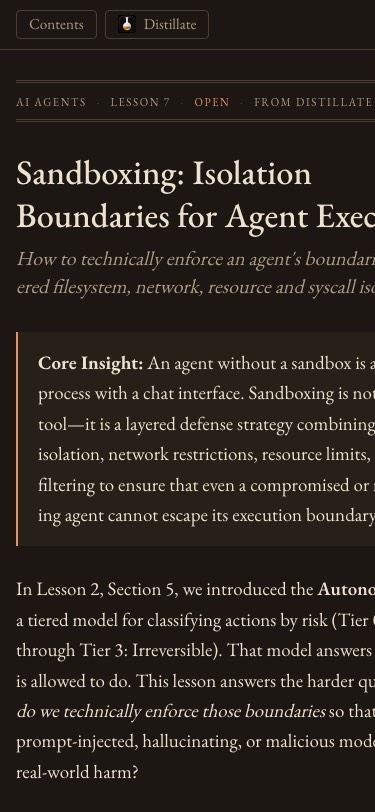
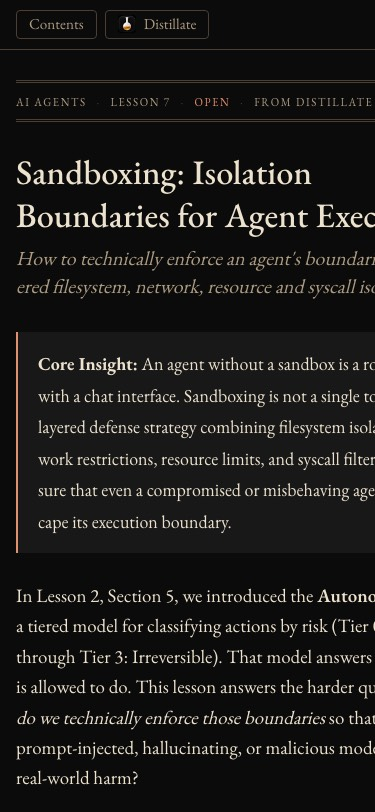
fix(ui): review fixes for numbering, margin notes, index offset and callout size
Unnumbered headings get no medallion in a lesson that numbers its own
headings. Folded margin notes take their number from their marker and keep
marker order, and the marker is inert on wide screens. The section and gloss
counters reset per article. The index offset applies only to lesson and
record pages and is set before hydration.

Changed region(s): [[0.0293, 0.7081, 1.0, 0.9852], [0.088, 0.431, 1.0, 0.6773]]

diff --git a/components/mdx/Margin.test.tsx b/components/mdx/Margin.test.tsx
@@ -1,15 +1,18 @@
-import { act } from "react";
+import { act, type ReactNode } from "react";
 import { createRoot, type Root } from "react-dom/client";
-import { afterEach, beforeEach, describe, expect, it } from "vitest";
+import { afterEach, beforeEach, describe, expect, it, vi } from "vitest";
 import { Margin } from "./Margin";
 
 (globalThis as { IS_REACT_ACT_ENVIRONMENT?: boolean }).IS_REACT_ACT_ENVIRONMENT = true;
 
-let container: HTMLDivElement;
+let container: HTMLElement;
 let root: Root;
+let wide = false;
 
 beforeEach(() => {
-  container = document.createElement("div");
+  wide = false;
+  vi.stubGlobal("matchMedia", (query: string) => ({ matches: wide && query === "(min-width: 1024px)" }));
+  container = document.createElement("article");
   document.body.appendChild(container);
   root = createRoot(container);
 });
@@ -17,38 +20,41 @@ beforeEach(() => {
 afterEach(() => {
   act(() => root.unmount());
   container.remove();
+  vi.unstubAllGlobals();
 });
 
-function render() {
-  act(() =>
-    root.render(
-      <>
-        <p>
-          The annotated sentence.<Margin label="Extends">The gloss text.</Margin> The rest of it.
-        </p>
-        <p>The next paragraph.</p>
-      </>,
-    ),
-  );
-  return container.querySelector<HTMLButtonElement>("button")!;
+function render(node: ReactNode) {
+  act(() => root.render(node));
+  return [...container.querySelectorAll<HTMLButtonElement>("button")];
 }
 
+const one = (
+  <>
+    <p>
+      The annotated sentence.<Margin label="Extends">The gloss text.</Margin> The rest of it.
+    </p>
+    <p>The next paragraph.</p>
+  </>
+);
+
+const notes = () => [...container.querySelectorAll('[role="note"]')];
+
 describe("Margin", () => {
-  it("keeps the gloss beside the paragraph for wide screens", () => {
-    render();
+  it("renders the gloss text inside the paragraph for the margin layout", () => {
+    render(one);
     expect(container.querySelector("p")!.textContent).toContain("The gloss text.");
   });
 
-  it("starts folded on narrow screens", () => {
-    const marker = render();
+  it("renders no folded note until the marker is tapped", () => {
+    const [marker] = render(one);
     expect(marker.getAttribute("aria-expanded")).toBe("false");
-    expect(container.querySelector('[role="note"]')).toBeNull();
+    expect(notes()).toHaveLength(0);
   });
 
   it("opens the note after the paragraph it annotates and closes it again", () => {
-    const marker = render();
+    const [marker] = render(one);
     act(() => marker.click());
-    const note = container.querySelector('[role="note"]')!;
+    const [note] = notes();
     const [first, second] = container.querySelectorAll("p");
     expect(marker.getAttribute("aria-expanded")).toBe("true");
     expect(note.id).toBe(marker.getAttribute("aria-controls"));
@@ -58,11 +64,30 @@ describe("Margin", () => {
     expect(note.compareDocumentPosition(second) & Node.DOCUMENT_POSITION_FOLLOWING).toBeTruthy();
 
     act(() => marker.click());
-    expect(container.querySelector('[role="note"]')).toBeNull();
+    expect(notes()).toHaveLength(0);
+    expect(marker.getAttribute("aria-expanded")).toBe("false");
+  });
+
+  it("numbers and orders two notes in one paragraph by their markers, whichever opens first", () => {
+    const [firstMarker, secondMarker] = render(
+      <p>
+        One.<Margin>First gloss.</Margin> Two.<Margin>Second gloss.</Margin>
+      </p>,
+    );
+    act(() => secondMarker.click());
+    act(() => firstMarker.click());
+    expect(notes().map((note) => note.textContent)).toEqual(["1First gloss.", "2Second gloss."]);
+  });
+
+  it("does not open a folded note on a wide screen, where the gloss sits in the margin", () => {
+    wide = true;
+    const [marker] = render(one);
+    act(() => marker.click());
+    expect(notes()).toHaveLength(0);
     expect(marker.getAttribute("aria-expanded")).toBe("false");
   });
 
   it("names the note's label for screen readers", () => {
-    expect(render().getAttribute("aria-label")).toBe("Margin note: Extends");
+    expect(render(one)[0].getAttribute("aria-label")).toBe("Margin note: Extends");
   });
 });

diff --git a/components/mdx/Margin.tsx b/components/mdx/Margin.tsx
@@ -4,54 +4,65 @@ import { useEffect, useId, useRef, useState, type ReactNode } from "react";
 import { createPortal } from "react-dom";
 
 const body = "text-[0.95rem] leading-[1.45] text-ink-soft [&_a]:text-accent";
+const kind = "block tracking-[0.1em] text-accent [font-variant:all-small-caps]";
+const wide = "(min-width: 1024px)";
 
 export function Margin({ label, children }: { label?: string; children: ReactNode }) {
   const id = useId();
   const marker = useRef<HTMLButtonElement>(null);
   const [open, setOpen] = useState(false);
-  const [slot, setSlot] = useState<HTMLElement>();
+  const [slot, setSlot] = useState<{ holder: HTMLElement; number: number }>();
 
   useEffect(() => {
-    if (!open || !marker.current) return;
-    const anchor = marker.current.closest("p, li, td") ?? marker.current;
+    const button = marker.current;
+    if (!open || !button) return;
+    const scope = button.closest("article") ?? document;
+    const number = [...scope.querySelectorAll("[data-gloss-marker]")].indexOf(button) + 1;
+    let after: Element = button.closest("p, li, td") ?? button;
+    while (after.nextElementSibling instanceof HTMLElement && Number(after.nextElementSibling.dataset.glossSlot) < number) {
+      after = after.nextElementSibling;
+    }
     const holder = document.createElement("div");
-    anchor.after(holder);
-    setSlot(holder);
+    holder.dataset.glossSlot = String(number);
+    after.after(holder);
+    setSlot({ holder, number });
     return () => {
       holder.remove();
       setSlot(undefined);
     };
   }, [open]);
 
-  const heading = (
-    <span className="block tracking-[0.1em] text-accent [font-variant:all-small-caps]">
-      <span className="before:content-[counter(gloss)] before:[font-variant-numeric:lining-nums]" />
-      {label && ` ${label}`}
-    </span>
-  );
-
   return (
     <>
       <button
         ref={marker}
         type="button"
+        data-gloss-marker=""
         aria-expanded={open}
         aria-controls={id}
         aria-label={`Margin note${label ? `: ${label}` : ""}`}
-        onClick={() => setOpen(!open)}
-        className="cursor-pointer border-0 bg-transparent px-1 align-super text-[0.7em] leading-none text-accent [counter-increment:gloss] before:content-[counter(gloss)] before:[font-variant-numeric:lining-nums] lg:cursor-default"
+        onClick={() => {
+          if (!matchMedia(wide).matches) setOpen(!open);
+        }}
+        className="cursor-pointer border-0 bg-transparent px-1 align-super text-[0.7em] leading-none text-accent [counter-increment:gloss] before:content-[counter(gloss)] lg:pointer-events-none lg:cursor-default before:[font-variant-numeric:lining-nums]"
       />
       <span className={`not-prose float-right clear-right -me-[16rem] mt-1 hidden w-[13.5rem] border-s border-accent ps-3 lg:block ${body}`}>
-        {heading}
+        <span className={kind}>
+          <span className="before:content-[counter(gloss)] before:[font-variant-numeric:lining-nums]" />
+          {label && ` ${label}`}
+        </span>
         {children}
       </span>
       {slot &&
         createPortal(
           <div id={id} role="note" className={`not-prose -mt-2 mb-5 border-s border-accent bg-paper-deep px-3.5 py-2.5 lg:hidden ${body}`}>
-            {heading}
+            <span className={kind}>
+              <span className="[font-variant-numeric:lining-nums]">{slot.number}</span>
+              {label && ` ${label}`}
+            </span>
             {children}
           </div>,
-          slot,
+          slot.holder,
         )}
     </>
   );

diff --git a/components/lesson/Chrome.tsx b/components/lesson/Chrome.tsx
@@ -3,7 +3,7 @@
 import Image from "next/image";
 import Link from "next/link";
 import { usePathname } from "next/navigation";
-import { useEffect, useState } from "react";
+import { useEffect, useRef, useState } from "react";
 
 export type IndexGroup = { label: string; links: { href: string; label: string; number?: number }[] };
 
@@ -33,10 +33,16 @@ function remember(key: string, value: string) {
 export function Chrome({ groups }: { groups: IndexGroup[] }) {
   const path = usePathname();
   const [open, setOpen] = useState(false);
+  const ready = useRef(false);
   const [dark, setDark] = useState(false);
   const [sections, setSections] = useState<{ id: string; label: string; number: string }[]>([]);
 
   useEffect(() => {
+    if (ready.current) document.documentElement.dataset.index = open ? "open" : "closed";
+  }, [open]);
+
+  useEffect(() => {
+    ready.current = true;
     const stored = recall("lessonIndex");
     setOpen(innerWidth >= wide && (stored ?? "open") === "open");
     setDark(document.documentElement.classList.contains("dark"));
@@ -45,17 +51,17 @@ export function Chrome({ groups }: { groups: IndexGroup[] }) {
   useEffect(() => {
     if (innerWidth < wide) setOpen(false);
     setSections(
-      [...document.querySelectorAll<HTMLHeadingElement>("main h2[id]")].map((h, i) => ({
-        id: h.id,
-        label: h.dataset.label ?? h.textContent ?? "",
-        number: h.dataset.number ?? String(i + 1),
-      })),
+      (() => {
+        const headings = [...document.querySelectorAll<HTMLHeadingElement>("main h2[id]")];
+        const authored = headings.some((h) => h.dataset.number);
+        return headings.map((h, i) => ({
+          id: h.id,
+          label: h.dataset.label ?? h.textContent ?? "",
+          number: h.dataset.number ?? (authored ? "" : String(i + 1)),
+        }));
+      })(),
     );
   }, [path]);
-
-  useEffect(() => {
-    document.documentElement.dataset.index = open ? "open" : "closed";
-  }, [open]);
 
   const toggleIndex = () => {
     remember("lessonIndex", open ? "closed" : "open");

diff --git a/app/layout.tsx b/app/layout.tsx
@@ -10,7 +10,7 @@ export const metadata: Metadata = {
   description: "Lessons and records of what agents learned while working.",
 };
 
-const theme = `try{var t=localStorage.getItem('lessonTheme');document.documentElement.classList.toggle('dark',t?t==='dark':matchMedia('(prefers-color-scheme: dark)').matches)}catch(e){document.documentElement.classList.toggle('dark',matchMedia('(prefers-color-scheme: dark)').matches)}`;
+const theme = `try{document.documentElement.dataset.index=innerWidth>=1280&&localStorage.getItem('lessonIndex')!=='closed'?'open':'closed'}catch(e){}try{var t=localStorage.getItem('lessonTheme');document.documentElement.classList.toggle('dark',t?t==='dark':matchMedia('(prefers-color-scheme: dark)').matches)}catch(e){document.documentElement.classList.toggle('dark',matchMedia('(prefers-color-scheme: dark)').matches)}`;
 
 export default async function RootLayout({ children }: { children: ReactNode }) {
   const groups = (await tracks()).map((track) => ({

diff --git a/app/globals.css b/app/globals.css
@@ -63,9 +63,16 @@ body {
   --tw-prose-pre-bg: var(--paper-deep);
   --tw-prose-th-borders: var(--ink-soft);
   --tw-prose-td-borders: var(--rule);
+}
+
+article.prose {
   font-size: 1.1875rem;
   line-height: 1.6;
   counter-reset: section gloss;
+}
+
+article.prose:has(h2[data-number]) h2:not([data-number])::before {
+  display: none;
 }
 
 .prose :where(h1, h2, h3, h4) {
@@ -126,7 +133,7 @@ body {
 }
 
 @media (min-width: 1280px) {
-  html[data-index="open"] body > main {
+  html[data-index="open"] body > main.leaf {
     margin-inline-start: max(17rem, calc((100% - 54rem) / 2));
   }
 }

diff --git a/components/lesson/Article.tsx b/components/lesson/Article.tsx
@@ -2,7 +2,7 @@ import type { ReactNode } from "react";
 
 export const prose = "prose max-w-none font-serif";
 
-export const leaf = "mx-auto max-w-[36rem] px-4 pb-24 pt-20 lg:max-w-[54rem] lg:pe-[17rem]";
+export const leaf = "leaf mx-auto max-w-[36rem] px-4 pb-24 pt-20 lg:max-w-[54rem] lg:pe-[17rem]";
 
 export type StripItem = { label: string; marked?: boolean };
 
